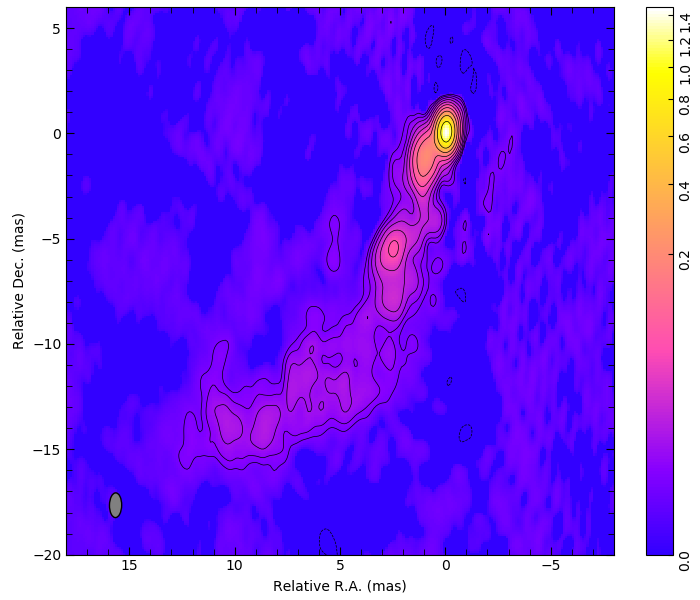
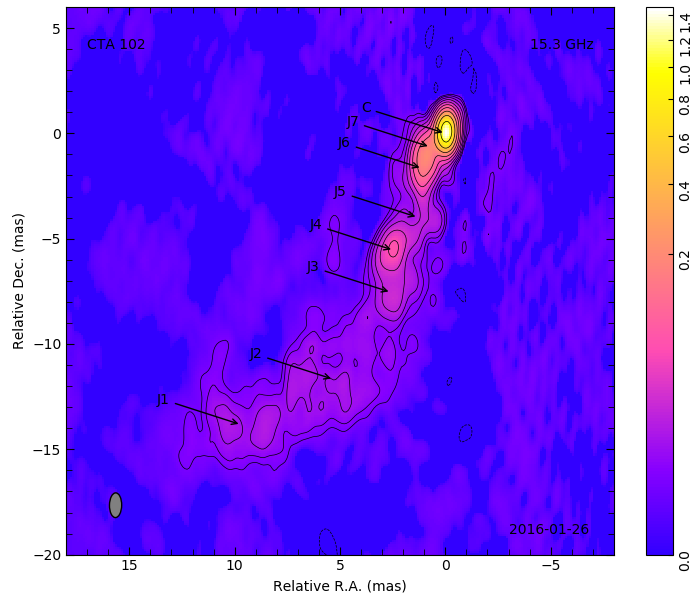
Add files via upload

diff --git a/cc2annotation.py b/cc2annotation.py
@@ -1,0 +1,119 @@
+#!/usr/bin/env python3
+# -*- coding: utf-8 -*-
+"""
+Created on Tue Oct 20 22:44:01 2020
+
+@author: f90
+"""
+
+import sys
+import getopt
+from astropy.coordinates import Angle
+import astropy.units as u
+import numpy as np
+from astropy.table import Table
+
+def cc2tex(infile, outfile='', dx=4.0, dy=1.0, theta=45.0, domodel=0):
+	# Read AIPS CC table
+	cc = Table.read(infile, hdu=1)
+#	print(cc.columns)
+	# Change units from degree to mas
+	cc['DELTAX'] = cc['DELTAX'] * 3.6E6
+	cc['DELTAY'] = cc['DELTAY'] * 3.6E6
+	cc['MAJOR AX'] = cc['MAJOR AX'] * 3.6E6
+	cc['MINOR AX'] = cc['MINOR AX'] * 3.6E6
+	# change coordinate, make the first component as (0, 0) point
+	cc['DELTAX'] = cc['DELTAX'] - cc['DELTAX'][0]
+	cc['DELTAY'] = cc['DELTAY'] - cc['DELTAY'][0]
+	
+	cc['r'] = np.sqrt(cc['DELTAX']**2+cc['DELTAY']**2)
+	pa = np.arctan2(cc['DELTAX'], cc['DELTAY'])
+	pa = np.degrees(pa)
+	pa = Angle(pa.data * u.deg)
+	pa.wrap_at('360d', inplace=True)
+	#print(pa)
+	cc['pa'] = pa
+	cc.sort(['r'])
+	
+	# creat new table
+	t = Table()
+	t['comp'] = ['J%d' % (len(cc)-i) for i in range(len(cc))]
+	t['flux'] = cc['FLUX'].data * 1.0e3
+	t['x'] = cc['DELTAX'].data
+	t['y'] = cc['DELTAY'].data
+	t['r'] = cc['r'].data
+	t['pa'] = pa.degree
+	t['d'] = cc['MAJOR AX'].data
+	t['comp'][0] = 'C'
+	# set formats
+	t['flux'].info.format = '%.3f'
+	t['x'].info.format = '%.3f'
+	t['y'].info.format = '%.3f'
+	t['r'].info.format = '%.3f'
+	t['pa'].info.format = '%.1f'
+	t['d'].info.format = '%.3f'
+	# set units
+	t['flux'].unit = 'mJy'
+	t['x'].unit = 'mas'
+	t['y'].unit = 'mas'
+	t['r'].unit = 'mas'
+	t['pa'].unit = 'deg'
+	t['d'].unit = 'mas'
+
+	theta = np.radians(theta)
+	with open(outfile, 'w') as f:
+		for r in t:
+			comp, x, y, d = r['comp'], r['x'], r['y'], r['d']
+			if domodel == 1:
+				f.write('ellipse, %.3f, %.3f, %.3f, %.3f, %.1f\n' % (x, y, d, d, 0))
+				x = x + d/2.0*np.sin(theta)
+				y = y + d/2.0*np.cos(theta)
+				f.write('annotation, %.3f, %.3f, %.3f, %.3f, %s\n' % (x, y, x+dx, y+dy, comp))
+			else:
+				f.write('annotation, %.3f, %.3f, %.3f, %.3f, %s\n' % (x, y, x+dx, y+dy, comp))
+
+def myhelp():
+	print('Help on cc2note.py')
+	print('cc2note.py <input.fits>')
+	print('  or: cc2note.py <input.fits> <out.tex>')
+	print('  or: cc2note.py -i <input.fits> -o <out.tex>')
+	
+def main(argv):
+	infile = ''
+	outfile = ''
+	dx, dy = 4.0, 1.0
+	theta = 45.0
+	domodel = 0
+	
+	try:
+		opts, args = getopt.getopt(argv, "hi:o:x:y:t:d:", ['help', 'infile=', 'outfile=', 'dx=', 'dy=', 'theta=', 'domodel='])
+	except getopt.GetoptError:
+		myhelp()
+		sys.exit(2)
+
+	for opt, arg in opts:
+		if opt in ('-h', '--help'):
+			myhelp()
+			sys.exit(0)
+		elif opt in ('-i', '--infile'):
+			infile = arg
+		elif opt in ('-o', '--outfile'):
+			outfile = arg
+		elif opt in ('-x', '--dx'):
+			dx = float(arg)
+		elif opt in ('-y', '--dy'):
+			dy = float(arg)
+		elif opt in ('-t', '--theta'):
+			theta = float(arg)
+		elif opt in ('-d', '--domodel'):
+			domodel = int(arg)
+	if len(args) == 1:
+		infile = args[0]
+	if len(args) == 2:
+		infile, outfile = args
+	if outfile == '':
+		outfile = infile.split('.')[0] + '.tex'
+	cc2tex(infile, outfile, dx, dy, theta, domodel)
+
+if __name__ == '__main__':
+	main(sys.argv[1:])
